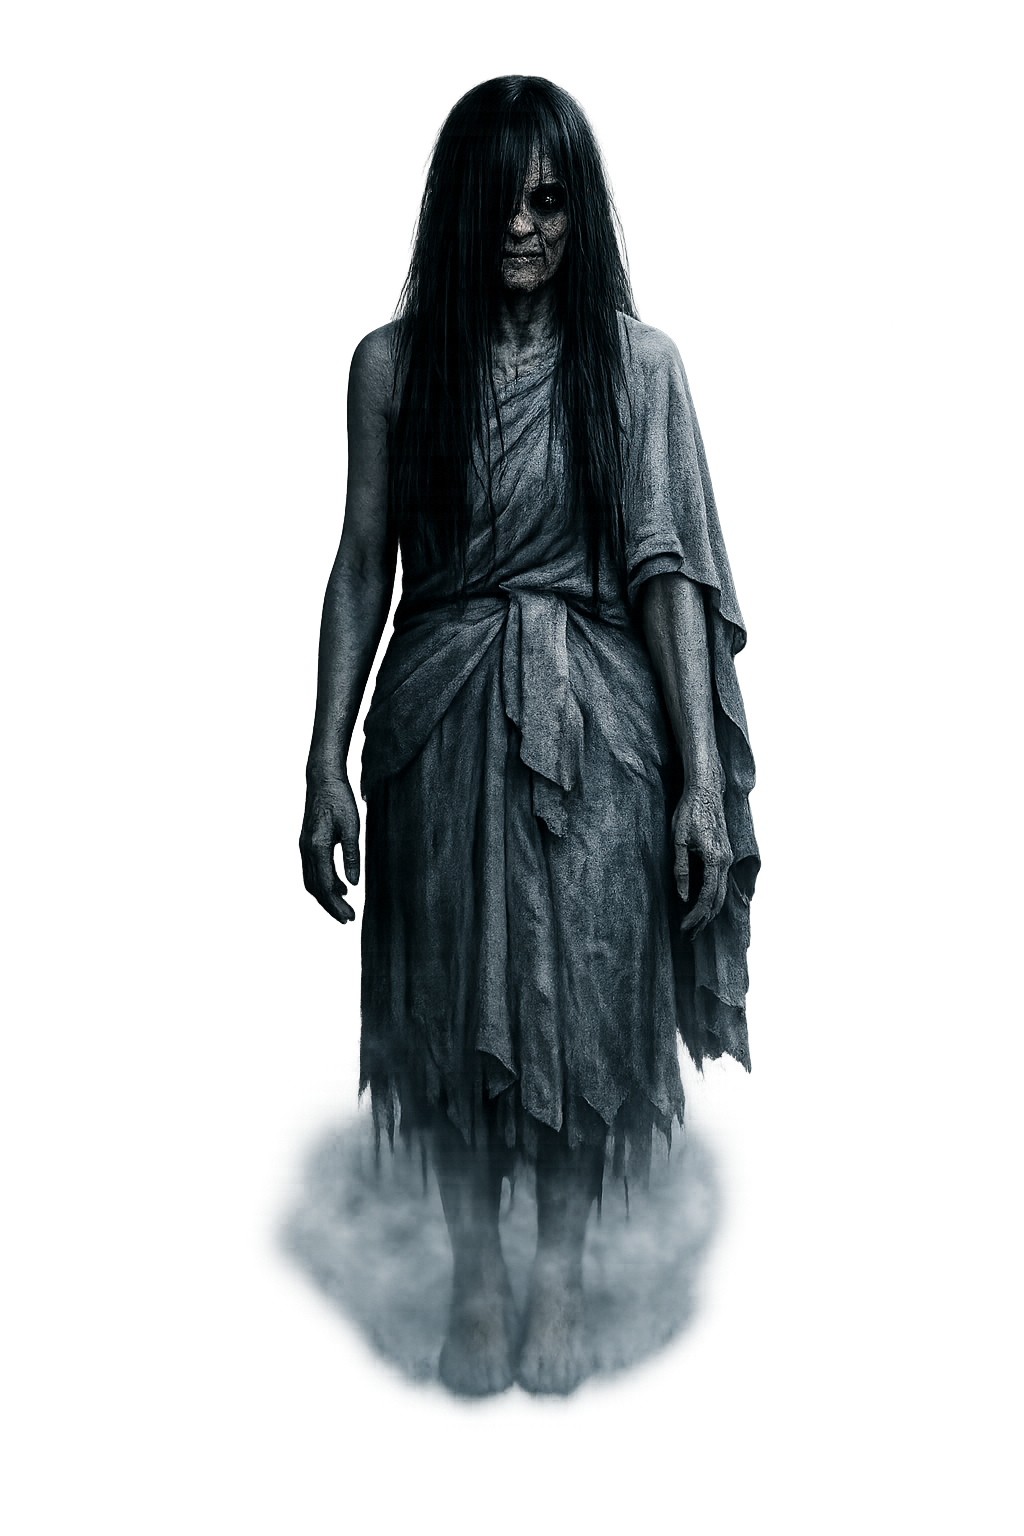
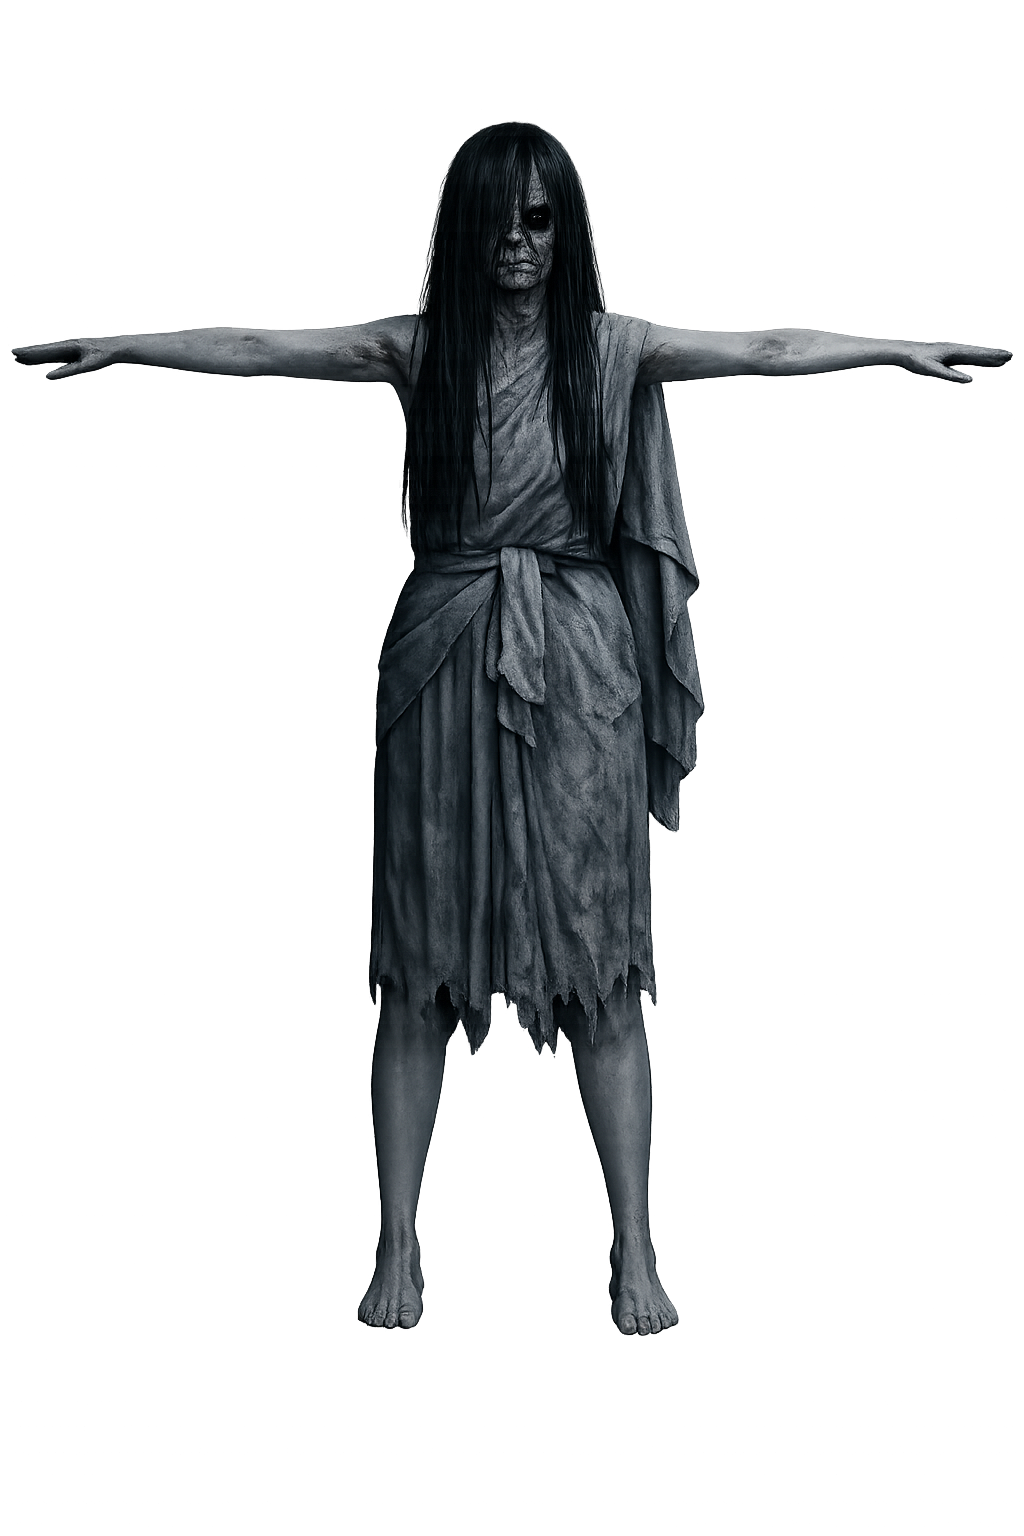
รอบ 88: อัปเดตภาพผีชุดใหม่ 5 ตัวแทนของเดิม 👻
- ghost_1..5.png เวอร์ชันใหม่ (ผู้ใช้เจนใหม่ทั้งหมด)
- บัมพ์ CACHE_VERSION v3→v4 ล้างแคชเก่า ผู้เล่นเก่าเห็นภาพใหม่ (ภาพเป็น cache-first)
- version .92→.93

Changed region(s): [[0.0, 0.0312, 1.0, 0.9375]]

diff --git a/sw.js b/sw.js
@@ -6,7 +6,7 @@
    - คำขอข้ามโดเมน (Firebase/Google login/gstatic): ปล่อยผ่าน ไม่ยุ่ง
    อัปเดตเวอร์ชัน: เปลี่ยน CACHE_VERSION แล้ว SW เก่าจะถูกล้างตอน activate
 */
-const CACHE_VERSION = 'pet-vocab-v3';   // v3: เพิ่มโลกผจญภัย 3D (three.js vendor + adventure3d.js)
+const CACHE_VERSION = 'pet-vocab-v4';   // v4: อัปเดตภาพผีชุดใหม่ 5 ตัว (ล้างแคชเก่าให้ผู้เล่นเก่าเห็นภาพใหม่)
 
 /* app shell — โครงหลักที่ต้องมีเพื่อเปิดเกมได้แม้ออฟไลน์ */
 const SHELL = [
